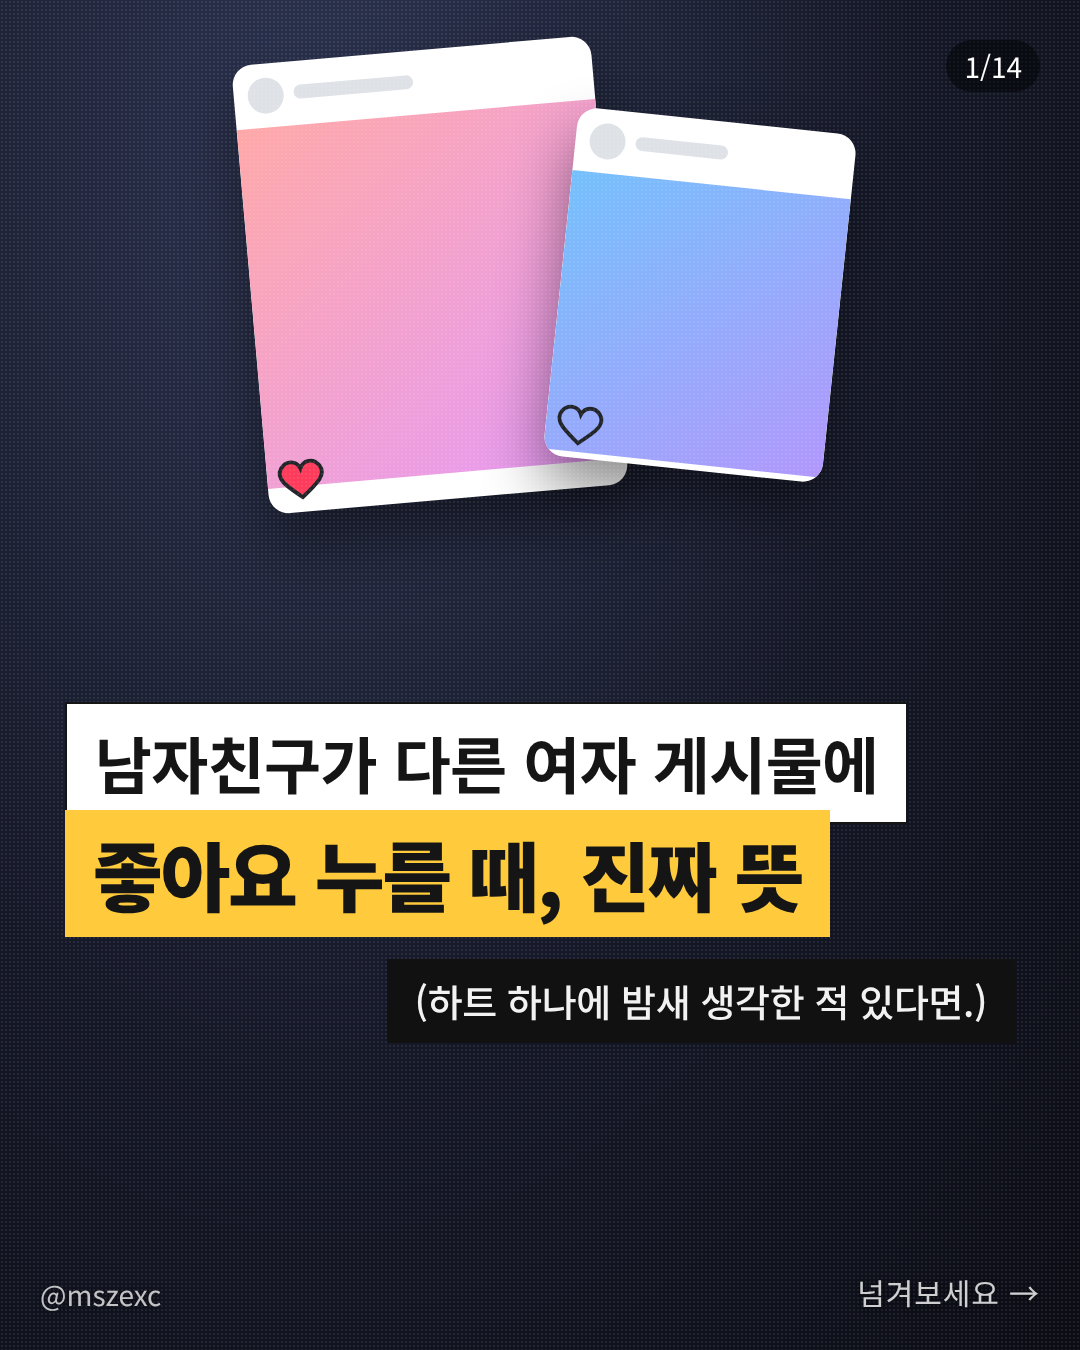
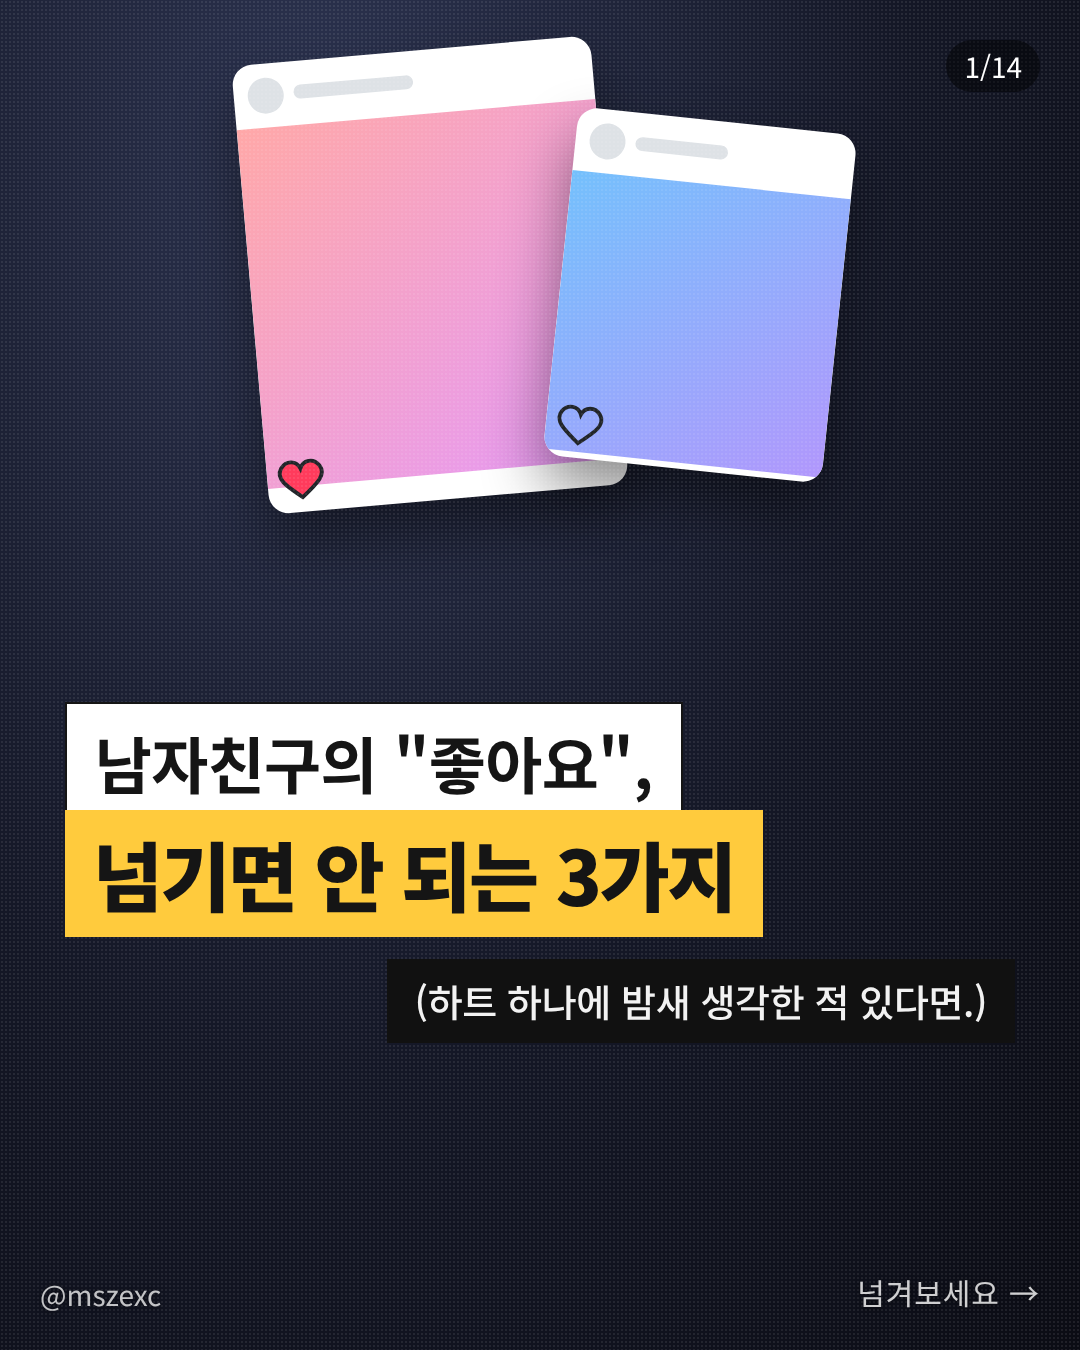
Hook titles: #50 #51 covers, 11/8-11/23 plan titles, hook rule in GUIDE and plan tab
Claude-Session: https://claude.ai/code/session_01J9i5yL8MFhQ5W67Sx3nDW6

Changed region(s): [[0.0917, 0.4978, 0.8556, 0.7156]]

diff --git a/carousel/photo_story/c50.html b/carousel/photo_story/c50.html
@@ -23,7 +23,7 @@
   .phd b { display:block; font-size:30px; color:#6d675e; letter-spacing:.1em; margin-bottom:8px; }
   .shade { position:absolute; left:0; right:0; bottom:0; height:60%; background:linear-gradient(transparent, rgba(0,0,0,.55)); }
 </style></head><body>
-<section class="slide" id="s1"><img class="bg" src="p50g/01.png" style="inset:0;width:100%;height:100%;object-fit:cover;filter:none"><div class="bx W" style="top:52%;left:6%;">남자친구가 다른 여자 게시물에</div><div class="bx G" style="top:60%;left:6%;">좋아요 누를 때, 진짜 뜻</div><div class="bx k" style="top:71%;right:6%;">(하트 하나에 밤새 생각한 적 있다면.)</div><div class="num">1/14</div><div class="hd">@mszexc</div><div class="ser">넘겨보세요 →</div></section>
+<section class="slide" id="s1"><img class="bg" src="p50g/01.png" style="inset:0;width:100%;height:100%;object-fit:cover;filter:none"><div class="bx W" style="top:52%;left:6%;">남자친구의 &quot;좋아요&quot;,</div><div class="bx G" style="top:60%;left:6%;">넘기면 안 되는 3가지</div><div class="bx k" style="top:71%;right:6%;">(하트 하나에 밤새 생각한 적 있다면.)</div><div class="num">1/14</div><div class="hd">@mszexc</div><div class="ser">넘겨보세요 →</div></section>
 <section class="slide" id="s2"><img class="bg" src="p50g/02.png" style="inset:0;width:100%;height:100%;object-fit:cover;filter:none"><div class="bx w" style="top:34%;left:8%;">남자친구 활동 기록에</div><div class="bx w" style="top:42%;right:6%;">모르는 여자 사진, 하트 하나.</div><div class="bx g" style="top:52%;left:8%;">그날 밤 잠이 안 와요.</div><div class="num">2/14</div><div class="hd">@mszexc</div><div class="ser">남자들끼리 하는 말 #50</div></section>
 <section class="slide" id="s3"><img class="bg" src="p50g/03.png" style="inset:0;width:100%;height:100%;object-fit:cover;filter:none"><div class="bx w" style="top:38%;left:8%;">남자 입장에서 말하면,</div><div class="bx g" style="top:47%;right:6%;">좋아요는 대부분 생각 없이 눌러요.</div><div class="num">3/14</div><div class="hd">@mszexc</div><div class="ser">남자들끼리 하는 말 #50</div></section>
 <section class="slide" id="s4"><img class="bg" src="p50g/04.png" style="inset:0;width:100%;height:100%;object-fit:cover;filter:none"><div class="bx q" style="top:40%;left:4%;">&quot;스크롤하다가 손가락이 먼저 갔어.&quot;</div><div class="bx k" style="top:51%;right:6%;">(진짜 이게 제일 흔해요.)</div><div class="num">4/14</div><div class="hd">@mszexc</div><div class="ser">남자들끼리 하는 말 #50</div></section>

diff --git a/carousel/photo_story/c51.html b/carousel/photo_story/c51.html
@@ -23,7 +23,7 @@
   .phd b { display:block; font-size:30px; color:#6d675e; letter-spacing:.1em; margin-bottom:8px; }
   .shade { position:absolute; left:0; right:0; bottom:0; height:60%; background:linear-gradient(transparent, rgba(0,0,0,.55)); }
 </style></head><body>
-<section class="slide" id="s1"><img class="bg" src="p51g/01.png" style="inset:0;width:100%;height:100%;object-fit:cover;filter:none"><div class="shade"></div><div class="bx W" style="top:52%;left:6%;">남자가 진짜 미안할 때만</div><div class="bx G" style="top:60%;left:6%;">하는 말</div><div class="bx k" style="top:71%;right:6%;">(&quot;미안해&quot;는 아니에요.)</div><div class="num">1/14</div><div class="hd">@mszexc</div><div class="ser">넘겨보세요 →</div></section>
+<section class="slide" id="s1"><img class="bg" src="p51g/01.png" style="inset:0;width:100%;height:100%;object-fit:cover;filter:none"><div class="shade"></div><div class="bx W" style="top:52%;left:6%;">남자가 &quot;미안해&quot; 해도</div><div class="bx G" style="top:60%;left:6%;">사과가 아닌 경우</div><div class="bx k" style="top:71%;right:6%;">(진짜 사과는 다음 문장에 있어요.)</div><div class="num">1/14</div><div class="hd">@mszexc</div><div class="ser">넘겨보세요 →</div></section>
 <section class="slide" id="s2"><img class="bg" src="p51g/02.png" style="inset:0;width:100%;height:100%;object-fit:cover;filter:none"><div class="bx w" style="top:38%;left:8%;">&quot;미안해&quot;는</div><div class="bx g" style="top:47%;right:6%;">싸움을 끝내고 싶을 때도 나와요.</div><div class="num">2/14</div><div class="hd">@mszexc</div><div class="ser">남자들끼리 하는 말 #51</div></section>
 <section class="slide" id="s3"><img class="bg" src="p51g/03.png" style="inset:0;width:100%;height:100%;object-fit:cover;filter:none"><div class="bx w" style="top:38%;left:8%;">진짜 미안한 남자는</div><div class="bx g" style="top:47%;right:6%;">&quot;무엇이&quot; 미안한지를 말해요.</div><div class="num">3/14</div><div class="hd">@mszexc</div><div class="ser">남자들끼리 하는 말 #51</div></section>
 <section class="slide" id="s4"><img class="bg" src="p51g/04.png" style="inset:0;width:100%;height:100%;object-fit:cover;filter:none"><div class="bx q" style="top:40%;left:4%;">&quot;그날 내가 네 말 끊은 거, 미안해.&quot;</div><div class="bx k" style="top:51%;right:6%;">(뭘 잘못했는지 정확히 아는 사과.)</div><div class="num">4/14</div><div class="hd">@mszexc</div><div class="ser">남자들끼리 하는 말 #51</div></section>

diff --git a/carousel/photo_story/stories_49_51.py b/carousel/photo_story/stories_49_51.py
@@ -45,9 +45,9 @@ CAP48 = f'''남자에게 질리는 여자로 남는 법, 생각보다 쉬워요.
 PIN48 = '다섯 개 중에 몇 개 하고 있었어요? 숫자만 남겨주세요 👇'
 
 # ── #49 · 다른 여자 · 11/6 저녁
-T49 = '남자친구가 다른 여자 게시물에 좋아요 누를 때, 진짜 뜻'
+T49 = '남자친구의 "좋아요", 넘기면 안 되는 3가지'
 C49 = [
- [('W', '남자친구가 다른 여자 게시물에', 52, 6), ('G', '좋아요 누를 때, 진짜 뜻', 60, 6), ('k', '(하트 하나에 밤새 생각한 적 있다면.)', 71, 'r')],
+ [('W', '남자친구의 "좋아요",', 52, 6), ('G', '넘기면 안 되는 3가지', 60, 6), ('k', '(하트 하나에 밤새 생각한 적 있다면.)', 71, 'r')],
  [('w', '남자친구 활동 기록에', 34, 8), ('w', '모르는 여자 사진, 하트 하나.', 42, 'r'), ('g', '그날 밤 잠이 안 와요.', 52, 8)],
  [('w', '남자 입장에서 말하면,', 38, 8), ('g', '좋아요는 대부분 생각 없이 눌러요.', 47, 'r')],
  [('q', '"스크롤하다가 손가락이 먼저 갔어."', 40, 4), ('k', '(진짜 이게 제일 흔해요.)', 51, 'r')],
@@ -62,7 +62,9 @@ C49 = [
  [('w', '반대로 "그게 뭐 어때서?"라고 한다면,', 34, 4), ('g', '하트보다 그 대답이 문제예요.', 44, 'r')],
  [('w', '이것만 기억하세요.', 30, 8), ('g', '하트 하나보다, 당신 마음을 대하는 태도를 보세요.', 39, 4), EBOOK],
 ]
-CAP49 = f'''남자친구 활동 기록에 모르는 여자 사진, 하트 하나.
+CAP49 = f'''남자친구의 "좋아요", 넘기면 안 되는 3가지가 있어요.
+
+남자친구 활동 기록에 모르는 여자 사진, 하트 하나.
 그날 밤 잠이 안 와요.
 
 남자 입장에서 말하면, 좋아요는 대부분 생각 없이 눌러요.
@@ -83,9 +85,9 @@ CAP49 = f'''남자친구 활동 기록에 모르는 여자 사진, 하트 하나
 PIN49 = '남자친구 좋아요 기록, 본 적 있어요? 있다 / 없다로 남겨주세요 👇'
 
 # ── #50 · 진심 · 11/7 낮
-T50 = '남자가 진짜 미안할 때만 하는 말'
+T50 = '남자가 "미안해" 해도 사과가 아닌 경우'
 C50 = [
- [('W', '남자가 진짜 미안할 때만', 52, 6), ('G', '하는 말', 60, 6), ('k', '("미안해"는 아니에요.)', 71, 'r')],
+ [('W', '남자가 "미안해" 해도', 52, 6), ('G', '사과가 아닌 경우', 60, 6), ('k', '(진짜 사과는 다음 문장에 있어요.)', 71, 'r')],
  [('w', '"미안해"는', 38, 8), ('g', '싸움을 끝내고 싶을 때도 나와요.', 47, 'r')],
  [('w', '진짜 미안한 남자는', 38, 8), ('g', '"무엇이" 미안한지를 말해요.', 47, 'r')],
  [('q', '"그날 내가 네 말 끊은 거, 미안해."', 40, 4), ('k', '(뭘 잘못했는지 정확히 아는 사과.)', 51, 'r')],
@@ -100,7 +102,9 @@ C50 = [
  [('w', '남자에게 사과는', 38, 8), ('g', '자존심을 내려놓는 일이에요.', 47, 'r')],
  [('w', '이것만 기억하세요.', 30, 8), ('g', '진짜 사과는 "미안해" 다음 문장에 있어요.', 39, 4), EBOOK],
 ]
-CAP50 = f'''"미안해"는 싸움을 끝내고 싶을 때도 나와요.
+CAP50 = f'''남자가 "미안해" 해도 사과가 아닌 경우가 있어요.
+
+"미안해"는 싸움을 끝내고 싶을 때도 나와요.
 진짜 미안한 남자는 "무엇이" 미안한지를 말해요.
 
 "그날 내가 네 말 끊은 거, 미안해."

diff --git a/carousel/plan90/build_page.py b/carousel/plan90/build_page.py
@@ -71,6 +71,7 @@ legend=''.join(f'<span class="lg"><span class="sr" style="background:{LAB[k][1]}
 from insights import block as ins_block
 head=ins_block()+f'''    <div class="rules" style="margin-top:12px">
       <div><b>11~12시</b> 저장형: 신호 · 진심 · 반어(금) · 위험한 남자 · 오래 만난 연애 · 합본 &nbsp; <b>18~19시</b> 감정형: 번역 · 이별 · 머릿속 · 다른 여자 · 그녀의 말 &nbsp; <b>비교형은 11/13부터 0편</b></div>
+      <div><b>훅 제목 (11/10)</b> · 표지만 보고 끝까지 넘기게: ① 반어로 손해 보기("남자에게 질리는 여자로 남는 법") ② 나만 모르는 것("당신한테만", "여자만 모르는") ③ 숫자 + 경고("넘기면 안 되는 3가지") ④ 오해 깨기("미안해 해도 사과가 아닌 경우") ⑤ 단정 · 타이밍("절대 안 바뀝니다", "딱 이때입니다"). 큰 제목은 "남자가 · 남자에게 · 헤어진 남자"로 시작 · 따옴표로 시작 X · 두 줄 안 · 본문이 반드시 답해야 해요(낚시 금지). 11/8~11/23 목차 32편에 반영.</div>
       <div><b>반어(C형)</b> · 11/3부터 금요일만. #35(사진+영상) 9.5천 · #29 7.3천으로 2주 연속 1만 아래라 화요일 칸은 진심 · 이별로 바꿨어요.</div>
       <div><b>릴스</b> · 팔로우 담당(30일 조회 763만 · 반응의 90%). <b>주 2편(목 · 일 21시)</b>. 끝 멘트 팔로우 이유 고정(R3 0.25%). 목요일과 격주 일요일은 남자 해독(팔로우형), 나머지 일요일은 그녀의 진짜 이유. 캐러셀 예고는 하지 않아요.</div>
       <div><b>고정 리듬</b> · 금 낮 = 반어, 격주 일요일 밤 = 그녀의 말 번역(10/28부터 격주), 격주 토요일 낮 = 합본. 댓글 사연 답변은 올리지 않기로 해서(10/27) 수요일 밤도 일반 캐러셀이에요.</div>

diff --git a/carousel/plan90/plan90.md b/carousel/plan90/plan90.md
@@ -59,50 +59,50 @@
 - 11/5(목) 21시 [릴스] R5 남자가 식을 때, 칭찬보다 먼저 줄어드는 것 · 캐러셀 #43(11/3)과 같은 소재라 뺌 · 「식을 때」는 R26(11/26)으로
 - 11/5(목) 18~19시 [머릿속] #48 남자의 말이 줄어들 때, 머릿속에서 일어나는 일 — #47 완성 · 📸 사진 7장 + 🎨 그래픽 7장
 - 11/6(금) 11~12시 [반어] #49 남자에게 질리는 여자로 남는 법 — #49 완성 · 📸 사진 7장 + 🎨 그래픽 7장
-- 11/6(금) 18~19시 [다른 여자] #50 남자친구가 다른 여자 게시물에 좋아요 누를 때, 진짜 뜻 — #50 완성 · 🎨 그래픽
-- 11/7(토) 11~12시 [진심] #51 남자가 진짜 미안할 때만 하는 말 — #51 완성 · 🎨 그래픽
+- 11/6(금) 18~19시 [다른 여자] #50 남자친구의 "좋아요", 넘기면 안 되는 3가지 — #50 완성 · 🎨 그래픽
+- 11/7(토) 11~12시 [진심] #51 남자가 "미안해" 해도 사과가 아닌 경우 — #51 완성 · 🎨 그래픽
 - 11/7(토) 18~19시 [번역] #52 남자가 당신한테만 "피곤하다"고 할 때 — #48 완성 · 📸 사진 7장 + 🎨 그래픽 7장 · #49~#51보다 먼저 올림
-- 11/8(일) 11~12시 [번역] #53 권태기 남자가 하는 말, 진짜 뜻
+- 11/8(일) 11~12시 [번역] #53 남자가 권태기일 때, 여자만 모르는 말들
 - 11/8(일) 21시 [릴스] R25 남사친 여사친, 진짜 있다고 생각하세요? (책 후기 『백야』) · 『우리는 가장 밝은 밤에 헤어졌다』 · 내 생각 3개 + 질문
-- 11/8(일) 18~19시 [그녀] #54 여자가 "너 요즘 이상해"라고 할 때
-- 11/9(월) 11~12시 [신호] #55 남자가 식을 때, 친구들 앞에서 달라지는 것
-- 11/9(월) 18~19시 [머릿속] #56 헤어지고 일주일, 남자 머릿속
-- 11/10(화) 11~12시 [이별] #57 남자가 이별을 통보 대신 잠수로 하는 이유 — 11/3 반어 → 이별
-- 11/10(화) 18~19시 [다른 여자] #58 남자친구 휴대폰에 저장된 여자 이름, 진짜 뜻
-- 11/11(수) 11~12시 [진심] #59 남자가 당신 앞에서만 하는 행동
-- 11/11(수) 18~19시 [번역] #60 남자가 "혼자 있고 싶어"라고 할 때, 진짜 뜻
-- 11/12(목) 11~12시 [번역] #61 남자가 안 바뀔 때 하는 말들, 진짜 뜻
+- 11/8(일) 18~19시 [그녀] #54 여자가 "너 요즘 이상해" 할 때, 남자가 하면 안 되는 대답
+- 11/9(월) 11~12시 [신호] #55 남자가 식으면, 친구들이 먼저 알아요
+- 11/9(월) 18~19시 [머릿속] #56 헤어지고 일주일, 괜찮은 척하는 남자 머릿속
+- 11/10(화) 11~12시 [이별] #57 남자가 헤어지자는 말 대신 잠수를 타는 진짜 이유 — 11/3 반어 → 이별
+- 11/10(화) 18~19시 [다른 여자] #58 남자친구 휴대폰 속 그 여자 이름, 넘기면 안 되는 경우
+- 11/11(수) 11~12시 [진심] #59 남자가 다른 여자 앞에선 절대 안 하는 행동
+- 11/11(수) 18~19시 [번역] #60 남자가 "혼자 있고 싶어" 할 때, 붙잡으면 끝나는 이유
+- 11/12(목) 11~12시 [번역] #61 남자가 이 말을 하면, 절대 안 바뀝니다
 - 11/12(목) 21시 [릴스] R6 여자가 질문 폭탄을 던지는 진짜 이유 · 그녀의 진짜 이유
-- 11/12(목) 18~19시 [이별] #62 헤어진 남자가 친구들에게 당신 얘기를 할 때
-- 11/13(금) 11~12시 [반어] #63 남자가 조용히 이별을 준비하게 만드는 법
-- 11/13(금) 18~19시 [번역] #64 남자가 "너 변했어"라고 할 때, 진짜 뜻
-- 11/14(토) 11~12시 [합본] #65 남자가 이 말을 하면, 번역 사전 1
-- 11/14(토) 18~19시 [머릿속] #66 싸운 날 밤, 남자 머릿속
-- 11/15(일) 11~12시 [번역] #67 남자가 읽고 답 안 할 때, 진짜 하는 생각
+- 11/12(목) 18~19시 [이별] #62 헤어진 남자가 친구들한테 당신을 이렇게 말해요
+- 11/13(금) 11~12시 [반어] #63 남자가 말없이 떠날 준비를 하게 만드는 법
+- 11/13(금) 18~19시 [번역] #64 남자가 "너 변했어"라고 할 때, 진짜 변한 사람
+- 11/14(토) 11~12시 [합본] #65 여자가 제일 많이 오해하는 남자의 말 (번역 사전 1)
+- 11/14(토) 18~19시 [머릿속] #66 싸운 날 밤, 연락 안 하는 남자 머릿속
+- 11/15(일) 11~12시 [번역] #67 남자가 읽고 답 안 할 때, 당신이 모르는 3가지 이유
 - 11/15(일) 21시 [릴스] R7 남자가 "우리 얘기 좀 하자"를 못 하는 이유
-- 11/15(일) 18~19시 [그녀] #68 여자가 "우리 얘기 좀 해"라고 할 때
-- 11/16(월) 11~12시 [신호] #69 남자가 식을 때, 미래 얘기가 이렇게 바뀝니다
-- 11/16(월) 18~19시 [이별] #70 남자가 이별을 말하기 전에 미루는 것들
-- 11/17(화) 11~12시 [진심] #71 남자가 부모님께 소개하기 전 하는 행동 — 11/3 반어 → 진심
-- 11/17(화) 18~19시 [다른 여자] #72 남자가 전 여자친구 얘기를 꺼낼 때, 진짜 뜻
+- 11/15(일) 18~19시 [그녀] #68 여자가 "우리 얘기 좀 해" 할 때, 남자가 도망가는 이유
+- 11/16(월) 11~12시 [신호] #69 남자가 식으면, "우리"가 "나"로 바뀝니다
+- 11/16(월) 18~19시 [이별] #70 헤어지기 직전의 남자가 슬쩍 미루는 것들
+- 11/17(화) 11~12시 [진심] #71 남자가 당신을 부모님께 보여주고 싶을 때 하는 행동 — 11/3 반어 → 진심
+- 11/17(화) 18~19시 [다른 여자] #72 남자가 굳이 전 여자친구 얘기를 꺼내는 이유
 
 ## 3단계 · 시리즈 확장 (11/18 ~ 12/12)
 잘된 시리즈에 편수 몰기. 반응 좋은 소재는 릴스로
 
-- 11/18(수) 11~12시 [진심] #73 남자가 미래를 그릴 때 쓰는 말
-- 11/18(수) 18~19시 [번역] #74 남자가 결정을 미룰 때 하는 말들, 진짜 뜻
-- 11/19(목) 11~12시 [머릿속] #75 싸우고 연락 없는 3일, 남자 머릿속
+- 11/18(수) 11~12시 [진심] #73 남자가 진심이면, 말에서 먼저 티 나요
+- 11/18(수) 18~19시 [번역] #74 남자가 "나중에"를 반복하면, 이미 답은 나온 겁니다
+- 11/19(목) 11~12시 [머릿속] #75 싸우고 연락 없는 3일, 남자가 진짜 기다리는 것
 - 11/19(목) 21시 [릴스] R8 남자의 말이 줄어들 때, 여자가 꼭 알아야 할 것 · 캐러셀 #47 「남자의 말이 줄어들 때」와 같은 소재
-- 11/19(목) 18~19시 [이별] #76 헤어진 남자가 돌아오는 타이밍
-- 11/20(금) 11~12시 [반어] #77 싸울 때마다 관계를 한 칸씩 무너뜨리는 법
-- 11/20(금) 18~19시 [위험] #78 나르시시스트가 연애 초반에 하는 말
-- 11/21(토) 11~12시 [다른 여자] #79 남자가 다른 여자가 생기면, 연락보다 먼저 바뀌는 것
-- 11/21(토) 18~19시 [번역] #80 남자가 서운한데 말 안 할 때 하는 말들
-- 11/22(일) 11~12시 [진심] #81 남자가 결혼을 생각하면 바뀌는 질문
+- 11/19(목) 18~19시 [이별] #76 헤어진 남자가 돌아오는 건, 딱 이때입니다
+- 11/20(금) 11~12시 [반어] #77 남자와 싸울 때마다 정 떨어지게 만드는 법
+- 11/20(금) 18~19시 [위험] #78 나르시시스트 남자가 연애 초반에 꼭 하는 말
+- 11/21(토) 11~12시 [다른 여자] #79 남자에게 다른 여자가 생기면, 휴대폰보다 먼저 바뀌는 것
+- 11/21(토) 18~19시 [번역] #80 남자가 서운할 때 "괜찮아"라고 하는 진짜 이유
+- 11/22(일) 11~12시 [진심] #81 남자가 결혼을 결심하면, 질문부터 달라집니다
 - 11/22(일) 21시 [릴스] R9 남자가 관계를 끝낼 때, 마지막으로 하는 말 · 팔로우 862 릴스의 다음 편
-- 11/22(일) 18~19시 [그녀] #82 여자가 "됐어, 나 혼자 갈게"라고 할 때
-- 11/23(월) 11~12시 [신호] #83 남자가 헤어질 결심을 하면, 제일 먼저 정리하는 것
-- 11/23(월) 18~19시 [이별] #84 헤어진 남자가 절대 안 돌아오는 경우
+- 11/22(일) 18~19시 [그녀] #82 여자가 "됐어, 나 혼자 갈게" 할 때, 진짜 가면 끝나요
+- 11/23(월) 11~12시 [신호] #83 남자가 헤어질 결심을 하면, 이것부터 정리합니다
+- 11/23(월) 18~19시 [이별] #84 헤어진 남자가 다시는 안 돌아오는 3가지 경우
 - 11/24(화) 11~12시 [이별] #85 헤어진 남자가 다시 연락 와도 받으면 안 되는 경우 — 11/3 반어 → 이별
 - 11/24(화) 18~19시 [신호] #86 남자가 식을 때, 기념일에 먼저 티 나는 것
 - 11/25(수) 11~12시 [그녀] #87 여자의 촉이 맞는 순간

diff --git a/carousel/photo_story/GUIDE.md b/carousel/photo_story/GUIDE.md
@@ -41,3 +41,16 @@
 - 사진: 표지 · 마지막 장(얼굴) · 분위기 장면(그림자, 엉킨 나무, 조명, 초록불)
 - 그래픽: 설명이 필요한 장(카톡 말풍선 · 그래프 · 달력 · 물음표 · 번개)
 - 사진과 그래픽을 번갈아 두면 장마다 그림이 바뀌어 넘기는 리듬이 생기고, 사진은 7장이면 충분해요(28장 → 14장)
+
+
+## 훅 제목 규칙 (11/10)
+
+표지만 보고 끝까지 넘기게 만드는 제목. 「남자에게 질리는 여자로 남는 법」이 기준이에요.
+
+1. **반어로 손해 보기** — "남자에게 질리는 여자로 남는 법", "남자와 싸울 때마다 정 떨어지게 만드는 법"
+2. **나만 모르는 것** — "남자가 당신한테만 '피곤하다'고 할 때", "남자가 권태기일 때, 여자만 모르는 말들"
+3. **숫자 + 경고** — "남자친구의 '좋아요', 넘기면 안 되는 3가지"
+4. **오해 깨기** — "남자가 '미안해' 해도 사과가 아닌 경우"
+5. **단정 · 타이밍** — "남자가 이 말을 하면, 절대 안 바뀝니다", "헤어진 남자가 돌아오는 건, 딱 이때입니다"
+
+지킬 것: 큰 제목은 "남자가 · 남자에게 · 헤어진 남자"로 시작 · 따옴표로 시작하지 않기 · 두 줄 안 · 중의적으로 읽히지 않게(「남자가 질리는 여자」 X) · 제목이 던진 질문에 본문이 반드시 답하기(낚시 금지) · 없는 통계 · 사연 만들지 않기.
